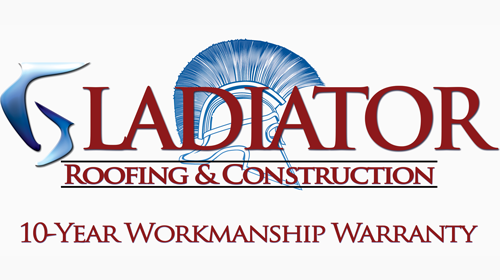
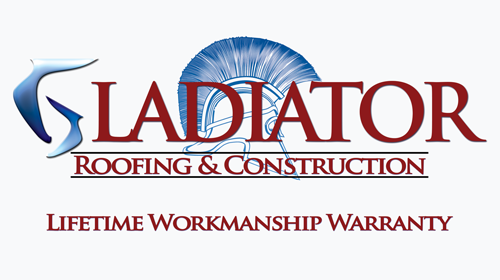
updated

Changed region(s): [[0.0, 0.1143, 1.0, 0.6857], [0.03, 0.7429, 0.96, 0.8857]]

diff --git a/index.html b/index.html
@@ -251,6 +251,72 @@
 						<div class="caption sfr tp-caption tp-resizeme" data-x="510" data-y="393" data-easing="easeOutExpo" data-start="3500" data-speed="700" >
 							<a href="roof_maint.html" class="btn btn-large btn-block btn-default">Learn More!</a>
 						</div>
+					</li>
+					
+					<!-- SLIDEUP -->
+					<li data-transition="fade" data-slotamount="2" data-masterspeed="1000" data-delay="10000" data-thumb="img/revslider/transparent.png">
+						<img src="img/revslider/revslide_5.jpg" alt="dua">
+
+						<div class="tp-caption sfr" data-x="450" data-y="100" data-speed="1000" data-start="2800" data-easing="easeOutExpo">
+							<img src="img/portfolio/gladiator_warranty.png" alt="Referral Slider">
+						</div>
+						
+						<div class="tp-caption medium_bold_black sft start tp-resizeme" data-x="20" data-y="115" data-speed="1000" data-start="1200" data-easing="easeOutBack">
+							Gladiator Roofing &amp; <br />
+							Construction's Warranty
+						</div>
+
+						
+						<div class="sfl modern_small_text_dark tp-caption" data-x="20" data-y="200" data-easing="easeOutExpo" data-start="2500" data-speed="700">
+							<p>Because we hire the best roofing installers in the area,<br/>
+							we guarantee our workmanship. We are confident in our <br/>
+							quality control systems, materials and processes and offer a<br/>
+							lifetime warranty on all roofs we install. Our 14 Point Roof<br/>
+							Inspection allows us to identify any areas of concern and<br />
+							immediately address them. We stand behind our work<br />
+							immediately after it’s finished … and for decades to come.
+							</p>	
+						</div>
+
+						<div data-easing="easeOutExpo" data-start="3000" data-speed="1000" data-y="380" data-x="20" class="caption sfl tp-caption tp-resizeme" >
+							<a href="warranty.html" class="btn btn-large btn-block btn-default">Learn More!</a>
+						</div>
+					</li>
+					
+					<!-- SLIDEUP -->
+					<li data-transition="fade" data-slotamount="1" data-masterspeed="1000" data-delay="10000" data-thumb="img/revslider/transparent.png">
+						<img src="img/revslider/transparent.png" data-lazyload="img/revslider/revslide_3.jpg"  alt="darkblurbg"  data-bgfit="cover" data-bgposition="left top" data-bgrepeat="no-repeat">
+						<div class="tp-caption sft" data-x="0" data-y="120" data-speed="700" data-start="1000" data-easing="easeOutExpo">
+							<img src="img/revslider/roof_4.jpg" alt="iMac Slider">
+						</div>
+						<div class="tp-caption sft" data-x="45" data-y="220" data-speed="700" data-start="4000" data-easing="easeOutExpo">
+							<img src="img/revslider/hail-impact-test_06.png" alt="iMac Slider">
+						</div>
+						<div class="tp-caption sfl" data-x="185" data-y="220" data-speed="700" data-start="4500" data-easing="easeOutExpo">
+							<img src="img/revslider/hail-impact-test_08.png" alt="Ipad Slider">
+						</div>
+						<div class="tp-caption sfb" data-x="325" data-y="220" data-speed="700" data-start="5000" data-easing="easeOutExpo">
+							<img src="img/revslider/hail-impact-test_10.png" alt="Iphone Slider">
+						</div>
+						<div class="tp-caption medium_bold_black sft start tp-resizeme" data-x="510" data-y="120" data-speed="700" data-start="1000" data-easing="easeInBack">
+							Emergency Services
+						</div>
+						
+						<div class="caption sfl modern_small_text_dark tp-caption" data-x="510" data-y="160" data-easing="easeOutExpo" data-start="3000" data-speed="700" >						
+							<p>We provide emergency services for you and your roofing needs.<br />
+							Roofing is exposed to the elements every day. Your roof is<br /> 
+							hit by sun, wind, rain snow and in extreme conditions hail,<br />
+							branches, etc. You do not have control of what your roof<br />
+							needs to endure. When the emergency comes such as a heavy<br />
+							storm that damages your roof, we will provide the emergency<br />
+							services to prevent as much future damage as we can. <br />
+							A new roof may not get on there the next day, but steps<br />
+							can be taken to close up a roofing hole now to<br /> 
+							project from future rain.</p>
+						</div>
+						<div class="caption sfr tp-caption tp-resizeme" data-x="510" data-y="393" data-easing="easeOutExpo" data-start="3500" data-speed="700" >
+							<a href="emergency.html" class="btn btn-large btn-block btn-default">Learn More!</a>
+						</div>
 					</li> 
 				</ul>
 

diff --git a/warranty.html b/warranty.html
@@ -140,9 +140,9 @@
 										</div>
 										
 										<figcaption class="item-description">
-											<h5>10-Year Roof Workmanship</h5>
+											<h5>Lifetime Roof Workmanship</h5>
 											<span>Warranty</span>
-											<p>Because we hire the best roofing installers in the area, we guarantee our workmanship. We are confident in our quality control systems, materials and processes and offer a 10-year warranty on all roofs we install. Our 14 Point Roof Inspection allows us to identify any areas of concern and immediately address them. We stand behind our work immediately after it’s finished … and for the decade to come.</p>
+											<p>Because we hire the best roofing installers in the area, we guarantee our workmanship. We are confident in our quality control systems, materials and processes and offer a lifetime warranty on all roofs we install. Our 14 Point Roof Inspection allows us to identify any areas of concern and immediately address them. We stand behind our work immediately after it’s finished … and for decades to come.</p>
 											<br />
 											<br />
 											<br />
@@ -152,7 +152,6 @@
 								</div>
 							</li>
 							<!--end col-lg-6 col-md-6 -->
-							
 							
 							<!--begin col-lg-6 col-md-6 -->
 							<li class="list_item col-lg-12 col-md-12 portfolio">
@@ -165,7 +164,7 @@
 											<h5>Manufacturer</h5>
 											<span>Warranty</span>
 											<p>In addition to our roof workmanship warranty, the manufacturers of our products (shingles, flashing, guttering, etc.) also offer warranties. We use only materials from manufacturers who provide outstanding roofing products. With these quality products also comes a guarantee of replacement in the event of rare defects or problems. Manufacturer’s warranties vary depending on the roofing products, and we will explain the details of each product when we review your estimate with you.</p>
-											<p>Between the roof workmanship warranty and the manufacturer’s warranties, your entire Gladiator Roofing and Construction System is guaranteed for 10 years, and built to last even longer.</p>
+											<p>Between the roof workmanship warranty and the manufacturer’s warranties, your entire Gladiator Roofing and Construction System is lifetime guaranteed.</p>
 
 										</figcaption>
 									</figure>
